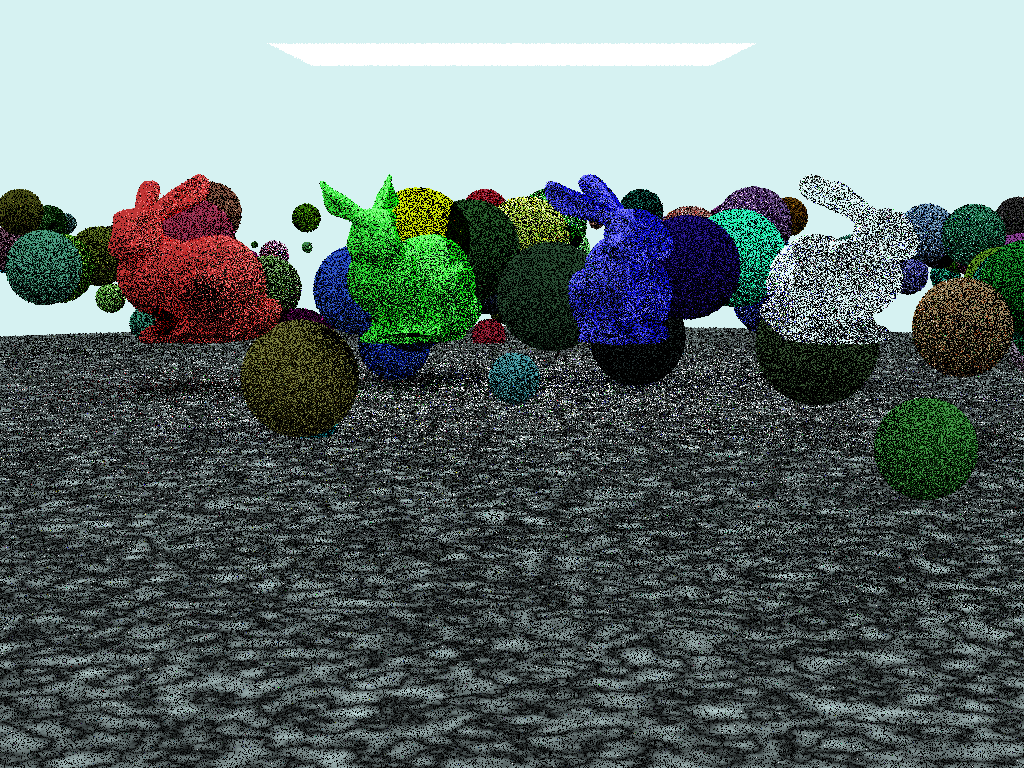
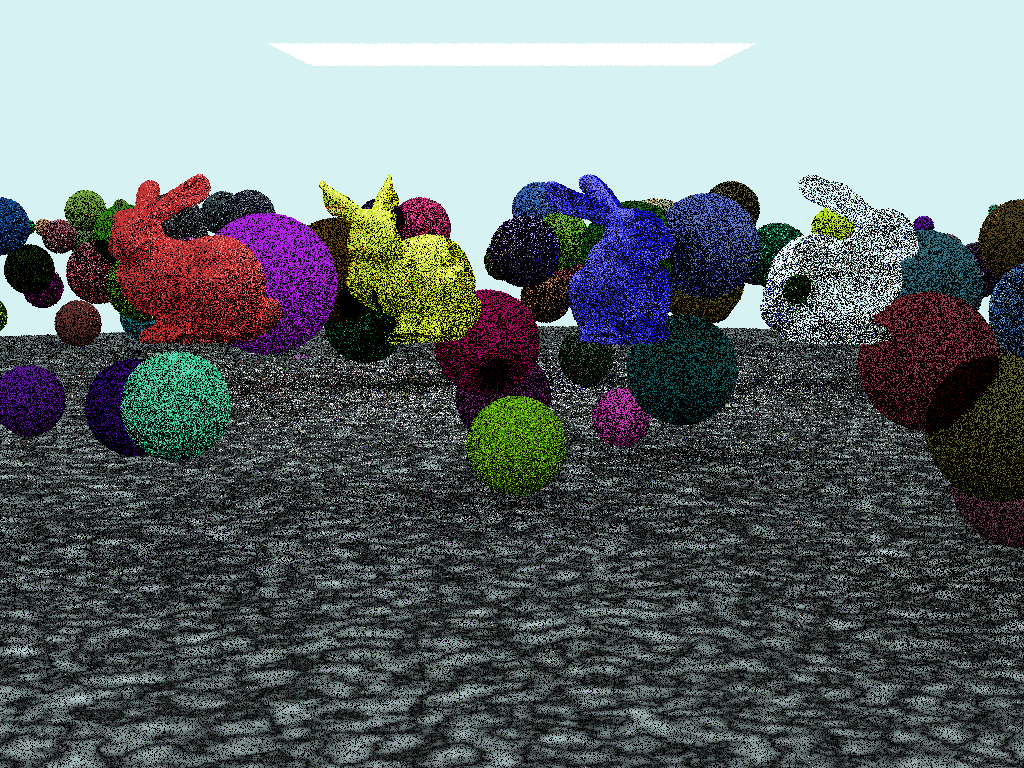
Minor update

diff --git a/scene/planeandbunny.h b/scene/planeandbunny.h
@@ -83,7 +83,7 @@ std::vector<std::shared_ptr<Primitive>> scene() {
     ts.rotateY(pi/4.f);
     ts.scale(50.0f);
 
-    albedo = vec3(0.05, 0.80, 0.05);
+    albedo = vec3(0.80, 0.80, 0.05);
     bunny_lambert = std::make_shared<Lambertian>(albedo);
     bunny = createTriangleMesh("data/model/bunny.obj", vec3(0.0f), 1.0f, vec3(1,1,1), true);
     bunny_transform = std::make_shared<Transform>(ts.getCurrentTransform());
